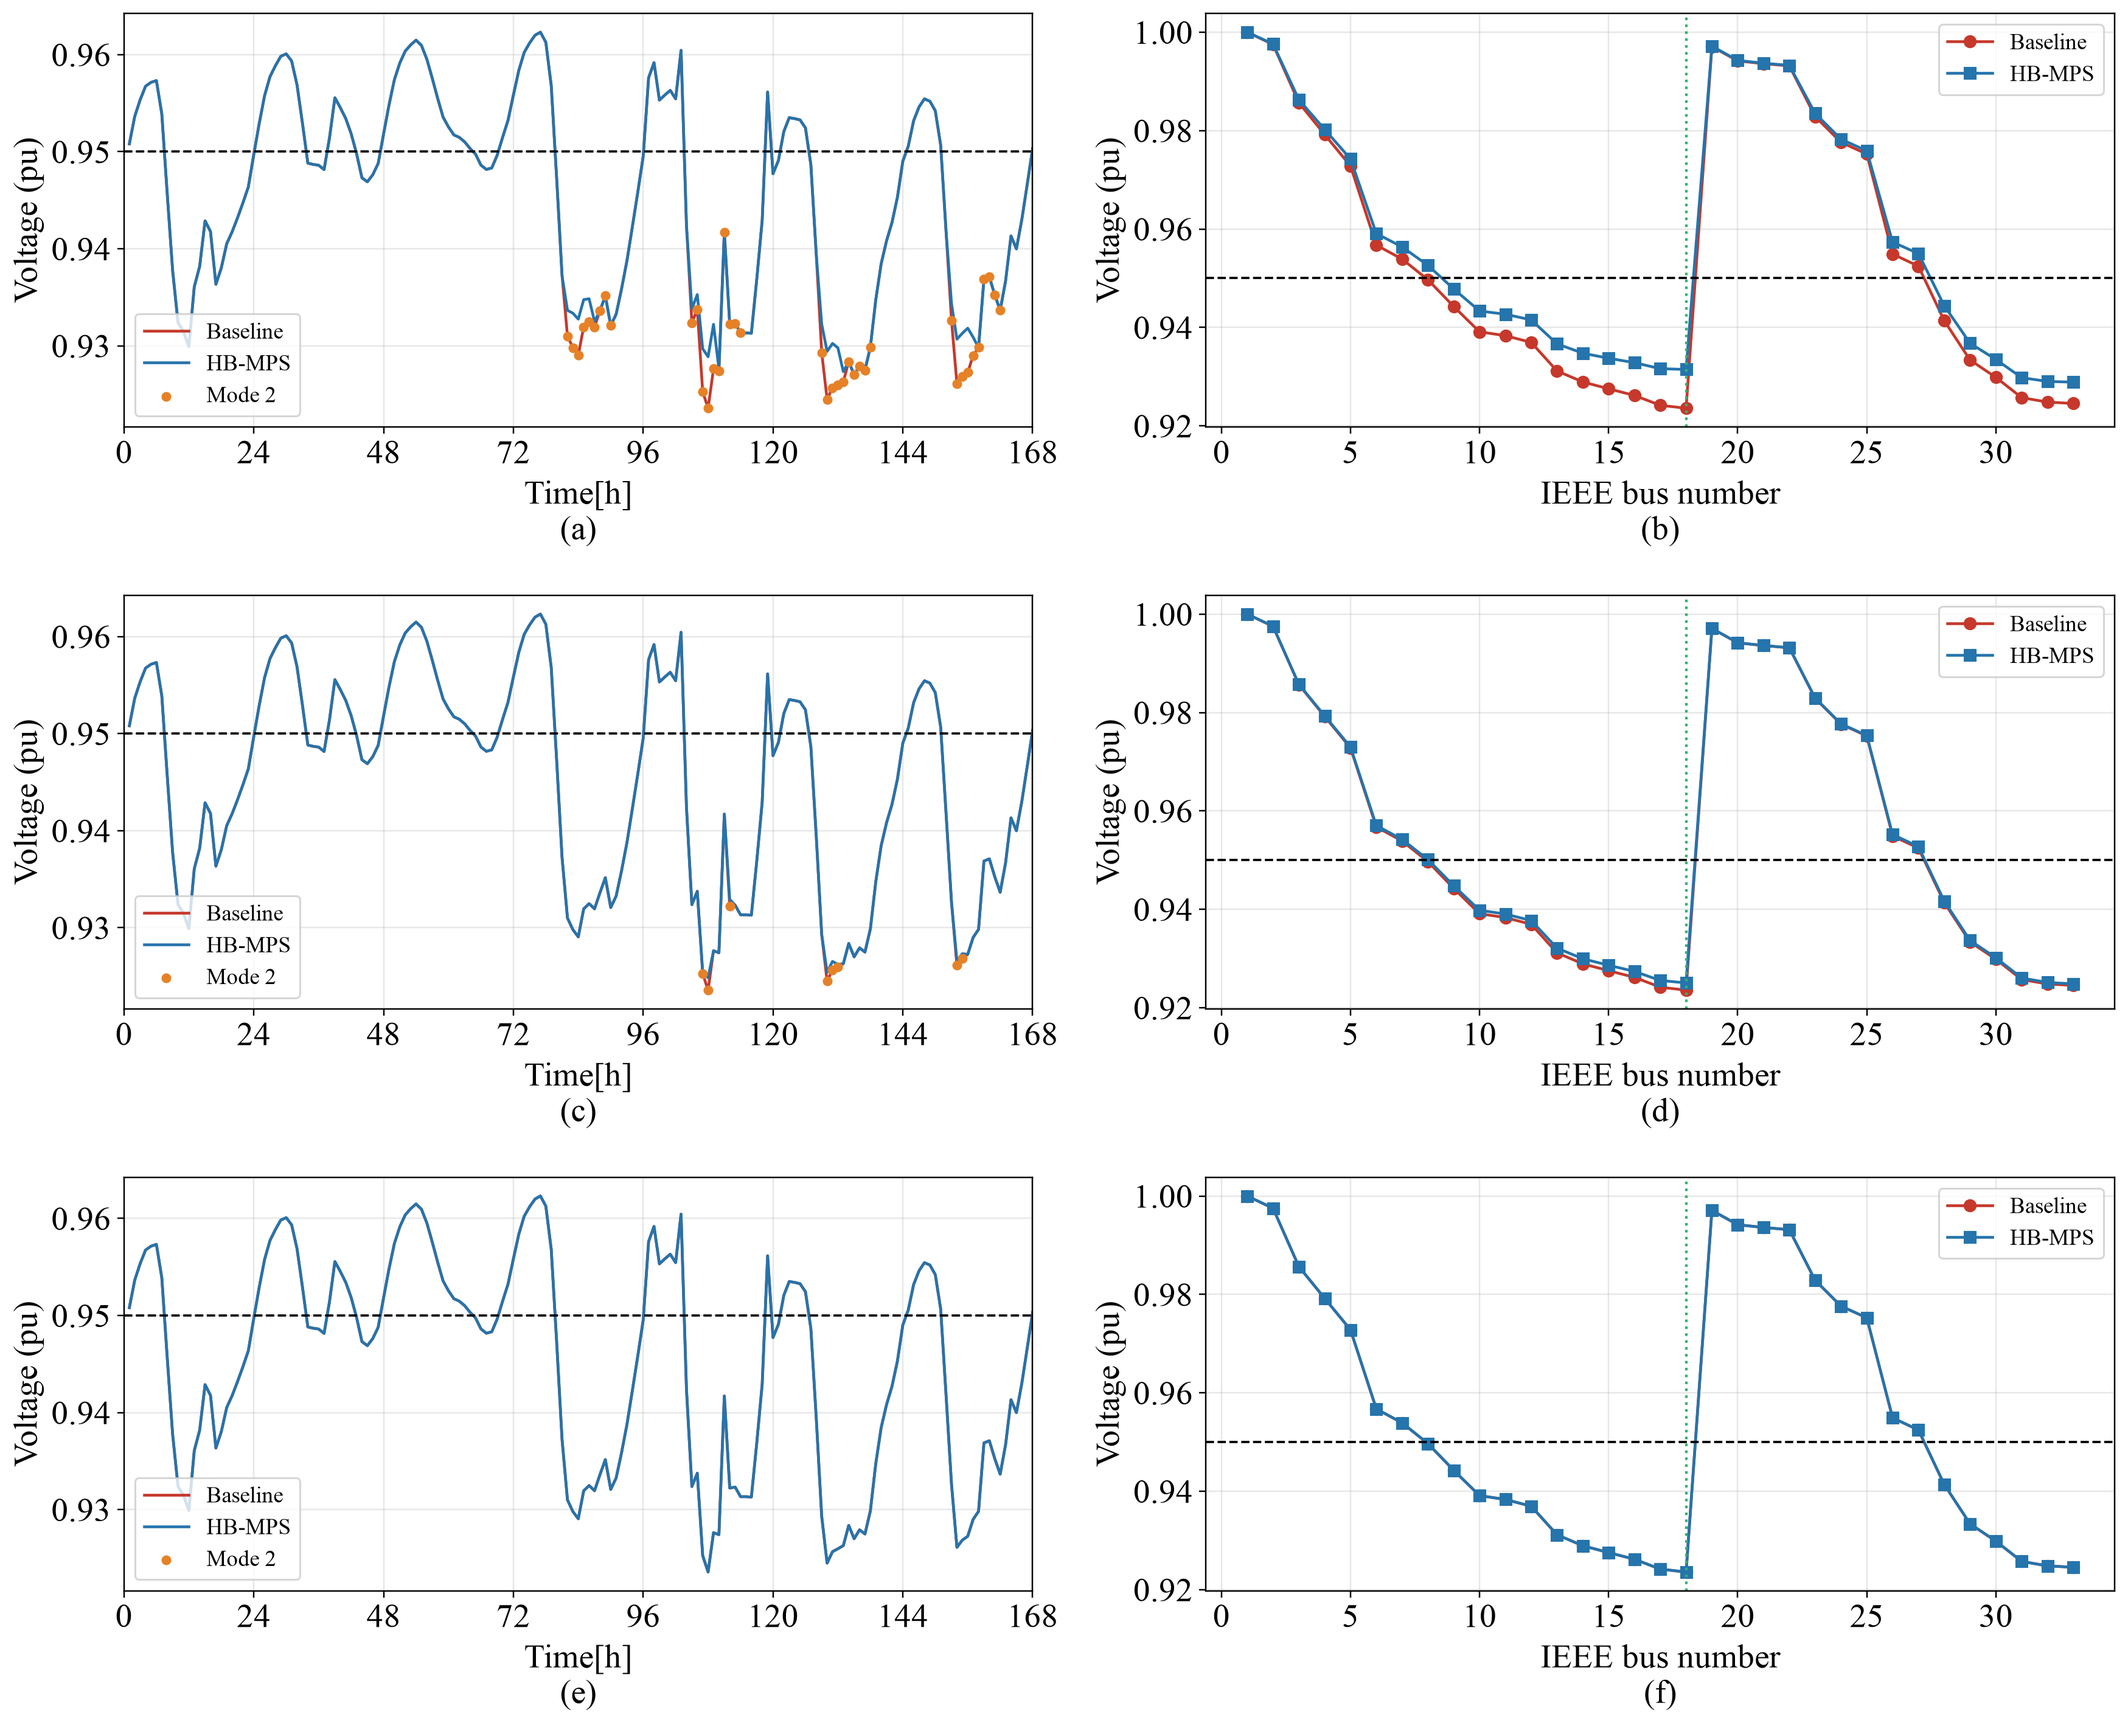
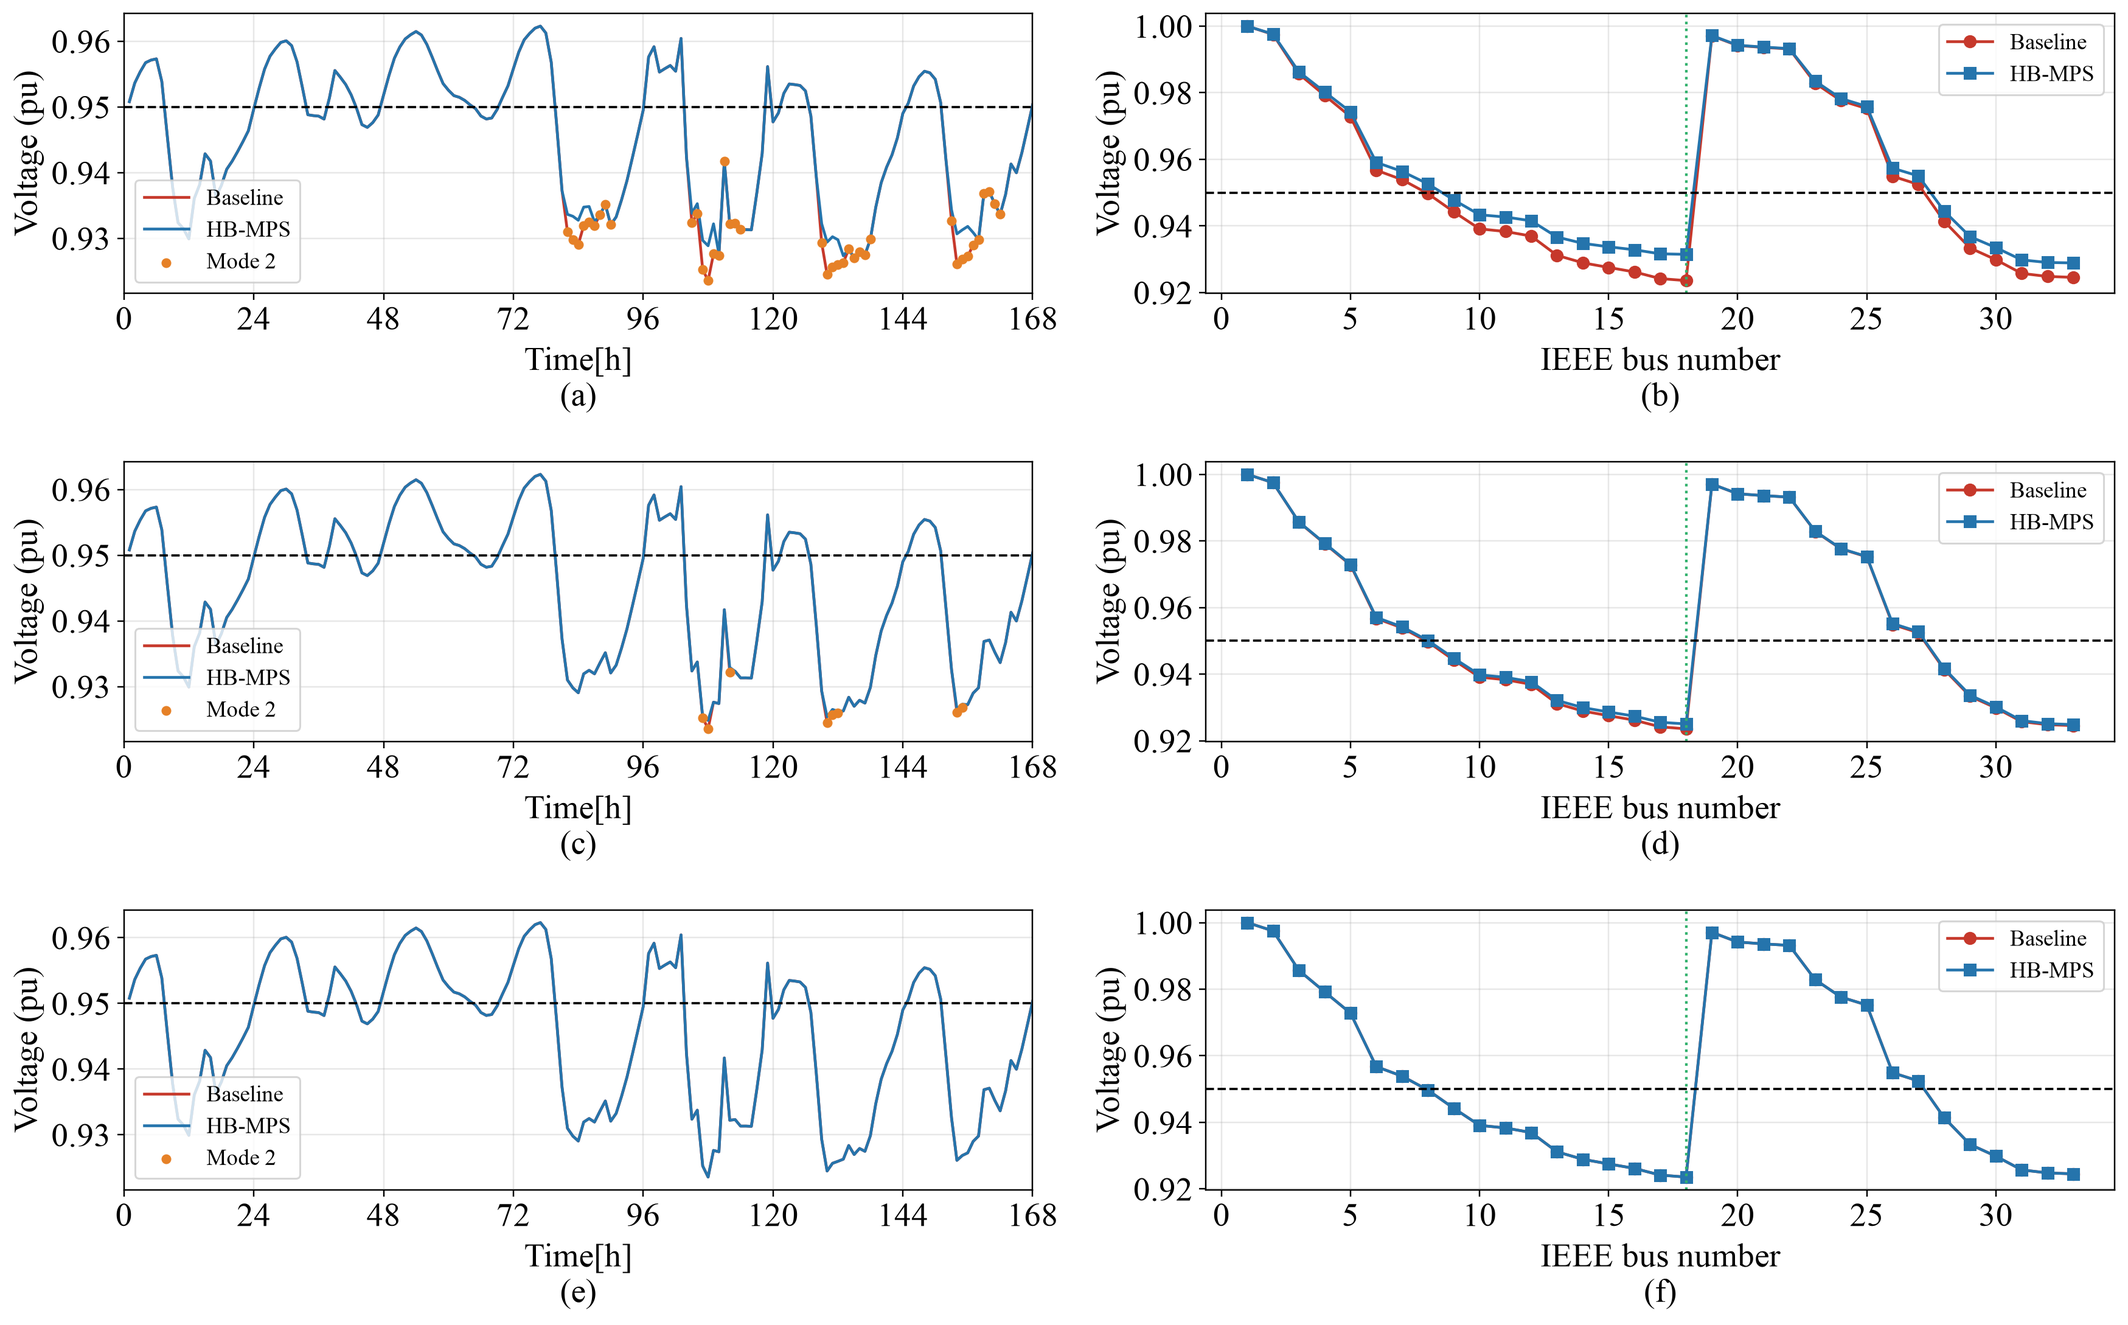
Flatten Figure 15 power-flow panels

diff --git a/powerflow_plot.py b/powerflow_plot.py
@@ -34,7 +34,7 @@ def save_figure(
     hb_bus_number: int,
 ) -> None:
     """Save time-series and nodal-voltage comparisons for all scenarios."""
-    fig, axes = plt.subplots(3, 2, figsize=(16, 13), dpi=220)
+    fig, axes = plt.subplots(3, 2, figsize=(16, 10), dpi=220)
     bus_numbers = np.arange(1, 34)
     for row, result in enumerate(results):
         records = result.records
